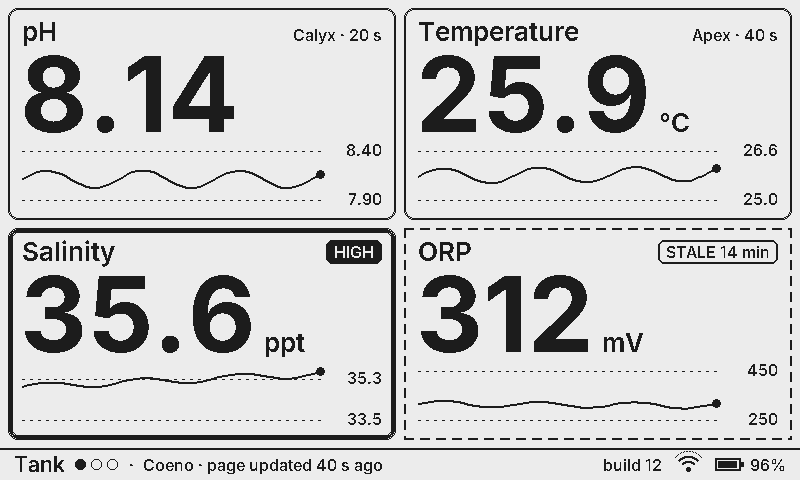
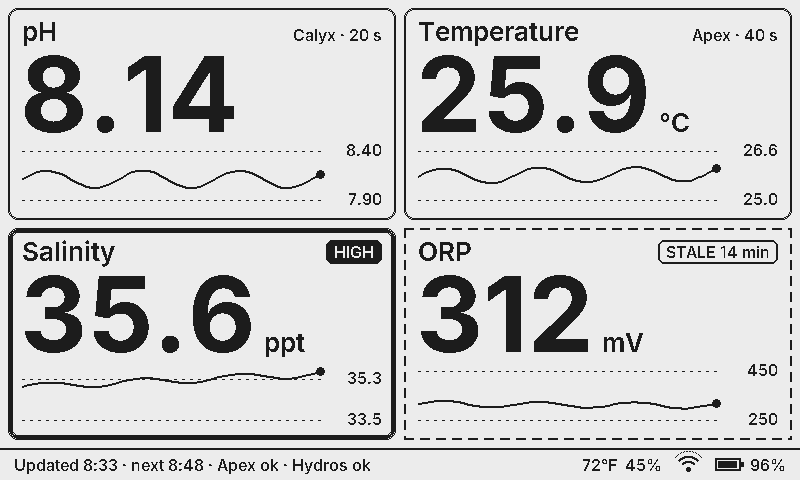
Screens refreshed (new footer), Numbers-view trend screen added
Claude-Session: https://claude.ai/code/session_01TP26oxsNUBWNE2a2ey2bNr

Changed region(s): [[0.0, 0.9375, 0.4688, 1.0], [0.7188, 0.9375, 0.8125, 1.0]]

diff --git a/README.md b/README.md
@@ -77,6 +77,8 @@ Passwords are stored on the panel (NVS) and never sent back to the browser. Ever
 
 ![Alarm](docs/screens/2-chem-3x2-alarm.png)
 
+![Numbers view with trend arrows and moved dots](docs/screens/24-numbers-trend.png)
+
 ### Outlets page (direct mode)
 
 Gauges tab → *Outlets page*: every output the Apex (`outputs`, ON/OFF = by hand, AON/AOF = auto) and the Hydros (`Output.<name>.valueState` 0–10000, `override` = by hand) report, with its live state; virtual / alert outputs hidden unless asked. Tick up to 8: they become a page after the gauge pages, 12 h up to now: on/off bars, dimmable outputs as their level (%), dosing heads as a mark per dose with its amount (`2.5`, from the Hydros dosing log). `ON since 7:15 PM` / `OFF by hand` under each name. Past only (the controllers don't share their programs). History is kept through battery sleeps, and refilled from the controllers' own logs every 30 min: the Apex output log (outputs with logging on) and the Hydros dosing log. In Coeno mode the Schedule page below shows the future too.
